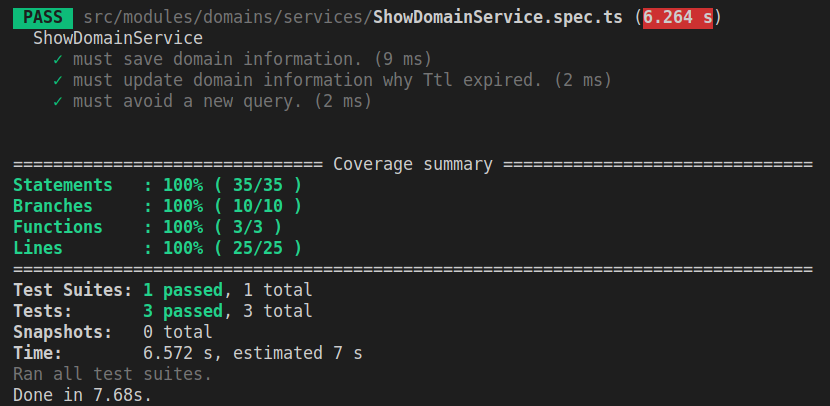
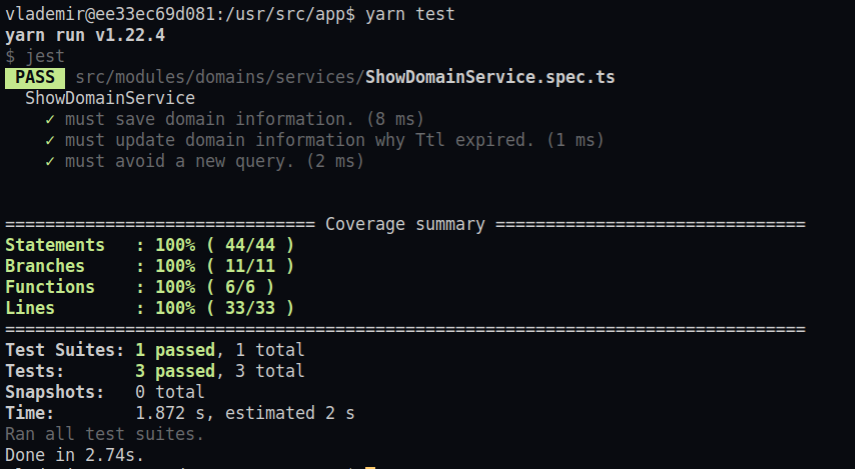
[Completed] - Challenge completed with improvements

Changed region(s): [[0.0, 0.3842, 0.994, 1.0], [0.0, 0.0, 0.8735, 0.3547], [0.512, 0.2956, 0.6928, 0.3251]]

diff --git a/backend/src/modules/domains/services/ShowDomainService.ts b/backend/src/modules/domains/services/ShowDomainService.ts
@@ -5,6 +5,7 @@ import IWhoisProvider from '../interfaces/IWhoisProvider';
 import IDNSProvider from '../interfaces/IDNSProvider';
 import IDomainDTO from '../interfaces/dtos/IDomainDTO';
 import IViewDomainDTO from '../interfaces/dtos/IViewDomainDTO';
+import Domain from '../entities/Domain';
 
 @injectable()
 export default class ShowDomainService {
@@ -22,24 +23,38 @@ export default class ShowDomainService {
   public async execute({ name }: IDomainDTO): Promise<IViewDomainDTO> {
     const domain = await this.domainsRepository.findByName(name);
     if (domain === undefined) {
-      const whoisComplete = await this.whoisProvider.get({ name });
-      const informationFiltered = await this.whoisProvider.informationFilter({ whoisComplete });
-      const { ip_address, time_to_live } = await this.dnsProvider.resolve({ name });
-      const { web_hosting, whois } = informationFiltered;
-      await this.domainsRepository.store({
-        name, ip_address, time_to_live, web_hosting, whois
-      });
-      return { name, whois, web_hosting: web_hosting || null, ip_address };
+      return this.saveDomainInformation({ name });
     }
-    if (differenceInSeconds(new Date, domain.updated_at) > domain.time_to_live) {
-      const whoisComplete = await this.whoisProvider.get({ name });
-      const informationFiltered = await this.whoisProvider.informationFilter({ whoisComplete });
-      const { ip_address, time_to_live } = await this.dnsProvider.resolve({ name });
-      const { web_hosting, whois } = informationFiltered;
-      Object.assign(domain, { name, ip_address, whois, web_hosting, time_to_live });
-      await this.domainsRepository.save(domain);
-      return { name, whois, web_hosting: web_hosting || null, ip_address };
+    const secondsPassed = differenceInSeconds(new Date, domain.updated_at);
+    const checkTtlExpired = secondsPassed > domain.time_to_live;
+    if (checkTtlExpired) {
+      return this.updateDomainInformation(name, domain);
     }
+    return this.getDomainInformationFromCache(domain);
+  }
+
+  private async saveDomainInformation({ name }: IDomainDTO): Promise<IViewDomainDTO> {
+    const whoisComplete = await this.whoisProvider.get({ name });
+    const informationFiltered = await this.whoisProvider.informationFilter({ whoisComplete });
+    const { ip_address, time_to_live } = await this.dnsProvider.resolve({ name });
+    const { web_hosting, whois } = informationFiltered;
+    await this.domainsRepository.store({
+      name, ip_address, time_to_live, web_hosting, whois
+    });
+    return { name, whois, web_hosting: web_hosting || null, ip_address };
+  }
+
+  private async updateDomainInformation(name: string, domain: Domain): Promise<IViewDomainDTO> {
+    const whoisComplete = await this.whoisProvider.get({ name });
+    const informationFiltered = await this.whoisProvider.informationFilter({ whoisComplete });
+    const { ip_address, time_to_live } = await this.dnsProvider.resolve({ name });
+    const { web_hosting, whois } = informationFiltered;
+    Object.assign(domain, { name, ip_address, whois, web_hosting, time_to_live });
+    await this.domainsRepository.save(domain);
+    return { name, whois, web_hosting: web_hosting || null, ip_address };
+  }
+
+  private getDomainInformationFromCache(domain: Domain): IViewDomainDTO {
     return {
       name: domain.name,
       whois: domain.whois,

diff --git a/backend/src/modules/domains/providers/WhoisProvider.ts b/backend/src/modules/domains/providers/WhoisProvider.ts
@@ -14,7 +14,49 @@ export default class WhoisProvider implements IWhoisProvider {
     ): Promise<IFormatterDTO> {
         return {
             whois: JSON.stringify(whoisComplete),
-            web_hosting: whoisComplete.registrationServiceProvidedBy,
+            web_hosting: this.improvedWebHostingExtraction({ whoisComplete }),
         }
+    }
+
+    /**
+     * improvedWebHostingExtraction
+     * Custom logic based on the results of other similar services
+     * to locate the responsible web hosting company.
+     * @see https://www.whoishostingthis.com/#search=umbler.com and compare.
+     * @param whoisComplete IWhoisProviderKeyableDTO is an object whois.
+     * @const umbler string Label for representing the hosting company Umbler
+     * @const amazonAws string Label for representing the hosting company Amazon AWS
+     * @const attributeByWeight Array Priority list with weight of attributes that may contain information from the hosting company.
+     * @returns string | undefined
+     */
+    private improvedWebHostingExtraction(
+        { whoisComplete }: IWhoisProviderKeyableDTO
+    ): string | undefined {
+        const umbler = 'Umbler';
+        const amazonAws = 'Amazon AWS';
+        const attributeByWeight = [
+            'organizationName',
+            'nameServer',
+            'nserver',
+            'registrationServiceProvidedBy',
+            'registrantOrganization',
+        ];
+        for (const attribute of attributeByWeight) {
+            if (whoisComplete[attribute]) {
+                /* whoisComplete.nserver: "ns1.umbler.com" or
+                whoisComplete.nameServer: "ns1.umbler.com " by example */
+                if (attribute === 'nameServer' || attribute === 'nserver') {
+                    if (whoisComplete[attribute].includes('umbler')) {
+                        return umbler;
+                    }
+                    if (whoisComplete[attribute].includes('aws')) {
+                        return amazonAws;
+                    }
+                } else {
+                    return whoisComplete[attribute]// whoisComplete.xxxxxxx by example
+                }
+            }
+        }
+        return undefined;
     }
 }

diff --git a/backend/src/modules/domains/providers/FakeWhoisProvider.ts b/backend/src/modules/domains/providers/FakeWhoisProvider.ts
@@ -17,7 +17,7 @@ export default class FakeWhoisProvider implements IWhoisProvider {
         this.whoisInformationTable = [
             {
                 'domainName': constant.TEST_DOMAIN_NAME,
-                'registrationServiceProvidedBy': 'Locaweb',
+                'registrationServiceProvidedBy': 'Umbler',
                 'nameServer': 'ns254.umbler.com'
             }
         ];
@@ -32,7 +32,13 @@ export default class FakeWhoisProvider implements IWhoisProvider {
     ): Promise<IFormatterDTO> {
         return {
             whois: JSON.stringify(whoisComplete),
-            web_hosting: whoisComplete.registrationServiceProvidedBy,
+            web_hosting: this.improvedWebHostingExtraction({ whoisComplete }),
         }
+    }
+
+    private improvedWebHostingExtraction(
+        { whoisComplete }: IWhoisProviderKeyableDTO
+    ): string | undefined {
+        return whoisComplete.registrationServiceProvidedBy;
     }
 }

diff --git a/backend/src/modules/domains/routes/domains.ts b/backend/src/modules/domains/routes/domains.ts
@@ -1,10 +1,10 @@
 import { Router } from 'express';
 import DomainController from '../controllers/DomainController';
-import { showDomainRequest } from '../validates/showDomainRequest';
+import { showDomainValidateRequest } from '../validates/showDomainValidateRequest';
 
-const dnsRouters = Router();
+const domainRouters = Router();
 const domainController = new DomainController();
 
-dnsRouters.get('/:domainName', ...showDomainRequest, domainController.show);
+domainRouters.get('/:domainName', ...showDomainValidateRequest, domainController.show);
 
-export default dnsRouters;
+export default domainRouters;

diff --git a/backend/src/middlewares/redacts.ts b/backend/src/middlewares/redacts.ts
@@ -1,6 +1,11 @@
 import { Request, Response } from 'express';
 import mung from 'express-mung';
 
+/**
+ * Redact for mitigation.
+ * 
+ * @see https://blog.rapid7.com/2019/12/06/hidden-helpers-security-focused-http-headers-to-protect-against-vulnerabilities/
+ */
 export const redactXPoweredBy = mung.headers(
     (_req: Request, res: Response): Response => {
         res.setHeader('x-powered-by', 'JSP/2.3');

diff --git a/backend/src/migrations/1611930272154-CreateDomainsTable.ts b/backend/src/migrations/1611930272154-CreateDomainsTable.ts
@@ -17,7 +17,7 @@ export class CreateDomainsTable1611930272154 implements MigrationInterface {
                     {
                         name: 'name',
                         type: 'varchar',
-                        isNullable: true,
+                        isNullable: false,
                     },
                     {
                         name: 'ip_address',

diff --git a/frontend/src/components/MainInformation.vue b/frontend/src/components/MainInformation.vue
@@ -8,7 +8,7 @@
         <h4>IP: {{ domainInformation.ip_address }}</h4>
       </div>
       <div v-show="domainInformation.web_hosting">
-        <h4>Hospedado por: {{ domainInformation.web_hosting }}</h4>
+        <h4>Hospedado em: {{ domainInformation.web_hosting }}</h4>
       </div>
     </div>
   </b-container>

diff --git a/backend/src/modules/domains/validates/showDomainValidateRequest.ts b/backend/src/modules/domains/validates/showDomainValidateRequest.ts
@@ -23,7 +23,7 @@ const validations = checkSchema({
     }
 });
 
-export const showDomainRequest = [
+export const showDomainValidateRequest = [
     validations,
     (request: Request, response: Response, next: NextFunction) => {
         const errors = validationResult(request);

diff --git a/backend/README.md b/backend/README.md
@@ -1,6 +1,7 @@
 # BACKEND - Umbler challenge
 
 ## Main objective of this architecture.
+- Clean code [More details](https://www.hostgator.com.br/blog/clean-code-o-que-e/)
 - To do unit tests will be much easier, without the need to make a request to an endpoint.
 - Code reuse in other classes.
 - Easy maintenance, as we will granulate our responsibilities and etc..., (Google search on SOLID).
@@ -97,6 +98,7 @@ xxxx.xxx # *.json, *.yml, node_modules, etc...
 ## Settings of the environment
 > Copy and paste the file .env.example for .env
 > Set your environment configurations.
+> See services configs on the docker-compose.yml file `APP_DB_NAME` is `MYSQL_DATABASE` by example.
 
 ## Before start for users linux.
 > [!CAUTION]
@@ -104,7 +106,7 @@ xxxx.xxx # *.json, *.yml, node_modules, etc...
 
 ## Running
 ```bash
-$ docker-compose up
+$ docker-compose up -d
 ```
 __________________________________
 

diff --git a/README.md b/README.md
@@ -1,19 +1,16 @@
 # Umbler challenge 
 ![100% Coverage - TDD](tdd_business_rules.png)
 ![umbler.com](umbler.com.png)
-![umbler.com.br](umbler.com.br.png)
+![umbler.com.br](tdi.com.png)
 ![umbler.erro](umbler.erro.png)
 
 ## / Root of the project
 
+** Read the readme in `./backend` and`./frontend` they have all the basic project documentation.
+
 > [!WARNING]
 > Order to run the docker-compose.
 ## Run the backend first and then the frontend.
-- cd backend && docker-compose up -d
-- cd ..
-- cd frontend && docker-compose up -d
- 
-** Read the readme in `./backend` and`./frontend` they have all the basic project documentation.
 
 ### Cheat Sheet - docker-compose
 

diff --git a/frontend/README.md b/frontend/README.md
@@ -31,7 +31,7 @@ ________________________________________________________________
 
 ## Running
 ```bash
-$ docker-compose up
+$ docker-compose up --build
 ```
 __________________________________
 
